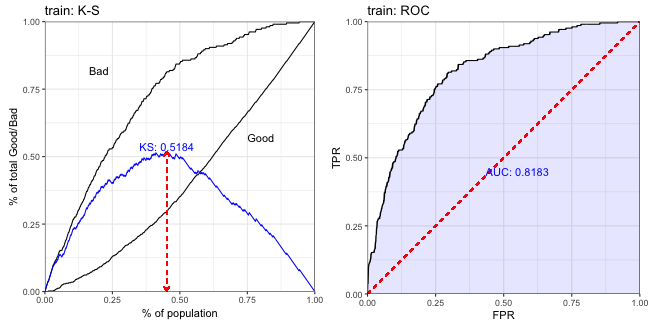
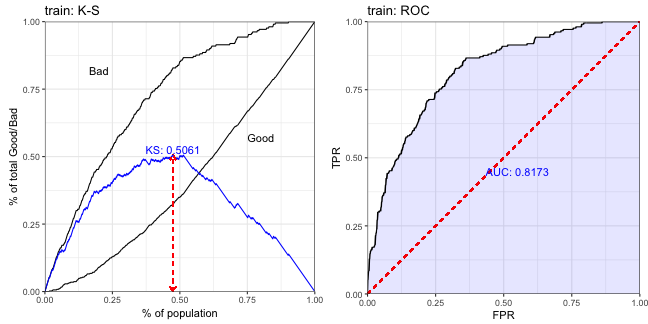
sc

diff --git a/slide/20171115scorecard/index.html b/slide/20171115scorecard/index.html
@@ -504,7 +504,7 @@ ivs[variable=="age.in.years",]
     - 通过上面两步连续变量与类别变量均转换为有序类别变量。
 
     - 最后，采用贪心算法逐步搜索使得信息值最大且新增分箱中样本占比(`min_perc_coarse_bin`)不小于5%的分箱点。
-    - 分箱过程的停止条件是信息增益率(`stop_limit`)小于0.1与最大分箱数(`max_bin_num`)大于8。
+    - 分箱过程的停止条件是信息增益率(`stop_limit`)小于0.1与最大分箱数(`max_num_bin`)大于8。
 
 --
 
@@ -609,12 +609,6 @@ h(x)&amp;=&amp;\frac{1}{1+e^{-z}} \\&amp;=&amp;\frac{1}{1+e^{-(\boldsymbol{w}^T\
 \end{eqnarray}$$`
 ]
 .pull-right[
-
-```
-## Find out what's changed in ggplot2 at
-## http://github.com/tidyverse/ggplot2/releases.
-```
-
 ![](index_files/figure-html/sig-1.png)&lt;!-- --&gt;
 ]
 
@@ -690,47 +684,47 @@ summary(m2)$coefficients
 
 ```
 ##                                                         Estimate
-## (Intercept)                                              -0.8591
-## status.of.existing.checking.account_woe                   0.6334
-## duration.in.month_woe                                     0.5573
-## credit.history_woe                                        0.4882
-## purpose_woe                                               1.0658
-## credit.amount_woe                                         1.0161
-## savings.account.and.bonds_woe                             0.9446
-## present.employment.since_woe                              0.6656
-## installment.rate.in.percentage.of.disposable.income_woe   1.9774
-## personal.status.and.sex_woe                               1.3106
-## property_woe                                              0.8354
-## age.in.years_woe                                          0.9081
-## other.installment.plans_woe                               0.6042
+## (Intercept)                                              -0.8556
+## status.of.existing.checking.account_woe                   0.6375
+## duration.in.month_woe                                     0.5348
+## credit.history_woe                                        0.4941
+## purpose_woe                                               1.0876
+## credit.amount_woe                                         1.0194
+## savings.account.and.bonds_woe                             0.9080
+## present.employment.since_woe                              0.6838
+## installment.rate.in.percentage.of.disposable.income_woe   2.1865
+## personal.status.and.sex_woe                               1.3552
+## property_woe                                              0.8475
+## age.in.years_woe                                          0.9261
+## other.installment.plans_woe                               0.6230
 ##                                                         Std. Error z value
-## (Intercept)                                                 0.1002  -8.577
-## status.of.existing.checking.account_woe                     0.1269   4.993
-## duration.in.month_woe                                       0.1996   2.792
-## credit.history_woe                                          0.1798   2.715
-## purpose_woe                                                 0.2600   4.099
-## credit.amount_woe                                           0.2544   3.994
-## savings.account.and.bonds_woe                               0.2412   3.916
-## present.employment.since_woe                                0.3353   1.985
-## installment.rate.in.percentage.of.disposable.income_woe     0.6397   3.091
-## personal.status.and.sex_woe                                 0.4887   2.682
-## property_woe                                                0.3109   2.687
-## age.in.years_woe                                            0.3071   2.957
-## other.installment.plans_woe                                 0.3967   1.523
+## (Intercept)                                                0.09994  -8.561
+## status.of.existing.checking.account_woe                    0.12678   5.028
+## duration.in.month_woe                                      0.20009   2.673
+## credit.history_woe                                         0.18001   2.745
+## purpose_woe                                                0.26026   4.179
+## credit.amount_woe                                          0.25486   4.000
+## savings.account.and.bonds_woe                              0.24003   3.783
+## present.employment.since_woe                               0.33525   2.040
+## installment.rate.in.percentage.of.disposable.income_woe    0.72834   3.002
+## personal.status.and.sex_woe                                0.49037   2.764
+## property_woe                                               0.31028   2.731
+## age.in.years_woe                                           0.30772   3.009
+## other.installment.plans_woe                                0.39668   1.571
 ##                                                          Pr(&gt;|z|)
-## (Intercept)                                             9.759e-18
-## status.of.existing.checking.account_woe                 5.960e-07
-## duration.in.month_woe                                   5.233e-03
-## credit.history_woe                                      6.624e-03
-## purpose_woe                                             4.150e-05
-## credit.amount_woe                                       6.501e-05
-## savings.account.and.bonds_woe                           8.987e-05
-## present.employment.since_woe                            4.714e-02
-## installment.rate.in.percentage.of.disposable.income_woe 1.994e-03
-## personal.status.and.sex_woe                             7.324e-03
-## property_woe                                            7.209e-03
-## age.in.years_woe                                        3.105e-03
-## other.installment.plans_woe                             1.277e-01
+## (Intercept)                                             1.115e-17
+## status.of.existing.checking.account_woe                 4.945e-07
+## duration.in.month_woe                                   7.523e-03
+## credit.history_woe                                      6.055e-03
+## purpose_woe                                             2.928e-05
+## credit.amount_woe                                       6.341e-05
+## savings.account.and.bonds_woe                           1.551e-04
+## present.employment.since_woe                            4.139e-02
+## installment.rate.in.percentage.of.disposable.income_woe 2.682e-03
+## personal.status.and.sex_woe                             5.718e-03
+## property_woe                                            6.306e-03
+## age.in.years_woe                                        2.617e-03
+## other.installment.plans_woe                             1.163e-01
 ```
 
 ---
@@ -922,9 +916,9 @@ data.table::rbindlist(card, fill=TRUE)[c(1,37:40),1:4]
 ## 4: age.in.years                                            [-Inf,26)
 ## 5: age.in.years                                              [26,35)
 ##        woe points
-## 1:      NA    450
+## 1:      NA    449
 ## 2: 0.03419     -2
-## 3: 0.58608    -35
+## 3: 0.58608    -36
 ## 4: 0.52884    -35
 ## 5: 0.06047     -4
 ```
@@ -944,7 +938,7 @@ str(train_score)
 
 ```
 ## Classes 'data.table' and 'data.frame':	700 obs. of  1 variable:
-##  $ score: num  528 677 533 492 444 473 444 519 605 453 ...
+##  $ score: num  533 673 541 487 451 478 450 494 601 456 ...
 ##  - attr(*, ".internal.selfref")=&lt;externalptr&gt;
 ```
 
@@ -957,18 +951,18 @@ str(train_score2)
 ```
 ## Classes 'data.table' and 'data.frame':	700 obs. of  13 variables:
 ##  $ status.of.existing.checking.account_points                : num  54 19 -28 19 54 54 -28 54 54 54 ...
-##  $ duration.in.month_points                                  : num  -21 14 53 14 -21 -4 -4 -46 14 14 ...
-##  $ credit.history_points                                     : num  26 -3 -3 -3 26 -43 26 -3 -3 -3 ...
-##  $ purpose_points                                            : num  62 32 62 32 -22 -22 32 32 32 -22 ...
-##  $ credit.amount_points                                      : num  -86 19 -2 19 -29 53 -2 -29 19 -2 ...
-##  $ savings.account.and.bonds_points                          : num  52 52 52 -18 -18 -18 -18 52 -18 -18 ...
-##  $ present.employment.since_points                           : num  -2 11 -21 -21 11 19 -2 11 -2 -2 ...
-##  $ installment.rate.in.percentage.of.disposable.income_points: num  -22 27 27 27 -22 -22 -22 9 27 -22 ...
-##  $ personal.status.and.sex_points                            : num  16 16 -25 -25 16 16 13 16 16 -25 ...
+##  $ duration.in.month_points                                  : num  -20 13 51 13 -20 -4 -4 -44 13 13 ...
+##  $ credit.history_points                                     : num  26 -3 -3 -3 26 -44 26 -3 -3 -3 ...
+##  $ purpose_points                                            : num  63 32 63 32 -22 -22 32 32 32 -22 ...
+##  $ credit.amount_points                                      : num  -86 19 -2 19 -29 54 -2 -29 19 -2 ...
+##  $ savings.account.and.bonds_points                          : num  50 50 50 -18 -18 -18 -18 50 -18 -18 ...
+##  $ present.employment.since_points                           : num  -2 12 -21 -21 12 19 -2 12 -2 -2 ...
+##  $ installment.rate.in.percentage.of.disposable.income_points: num  -16 25 40 25 -16 -16 -16 -16 25 -16 ...
+##  $ personal.status.and.sex_points                            : num  16 16 -26 -26 16 16 14 16 16 -26 ...
 ##  $ property_points                                           : num  -2 -2 -2 28 -2 -2 -2 -2 -2 28 ...
-##  $ age.in.years_points                                       : num  -4 37 -35 -35 -4 13 -4 -4 13 -4 ...
+##  $ age.in.years_points                                       : num  -4 38 -35 -35 -4 13 -4 -4 13 -4 ...
 ##  $ other.installment.plans_points                            : num  5 5 5 5 5 -21 5 -21 5 5 ...
-##  $ score                                                     : num  528 677 533 492 444 473 444 519 605 453 ...
+##  $ score                                                     : num  533 673 541 487 451 478 450 494 601 456 ...
 ##  - attr(*, ".internal.selfref")=&lt;externalptr&gt;
 ```
 
@@ -1012,94 +1006,94 @@ str(train_score2)
  &lt;/thead&gt;
 &lt;tbody&gt;
   &lt;tr&gt;
-   &lt;td style="text-align:left;"&gt; [150,250) &lt;/td&gt;
-   &lt;td style="text-align:right;"&gt; 0.0086 &lt;/td&gt;
-   &lt;td style="text-align:right;"&gt; 0.0167 &lt;/td&gt;
-   &lt;td style="text-align:right;"&gt; -0.0081 &lt;/td&gt;
-   &lt;td style="text-align:right;"&gt; -0.6650 &lt;/td&gt;
-   &lt;td style="text-align:right;"&gt; 0.0054 &lt;/td&gt;
-   &lt;td style="text-align:right;"&gt; 0.0501 &lt;/td&gt;
+   &lt;td style="text-align:left;"&gt; [100,250) &lt;/td&gt;
+   &lt;td style="text-align:right;"&gt; 0.0114 &lt;/td&gt;
+   &lt;td style="text-align:right;"&gt; 0.0200 &lt;/td&gt;
+   &lt;td style="text-align:right;"&gt; -0.0086 &lt;/td&gt;
+   &lt;td style="text-align:right;"&gt; -0.5596 &lt;/td&gt;
+   &lt;td style="text-align:right;"&gt; 0.0048 &lt;/td&gt;
+   &lt;td style="text-align:right;"&gt; 0.0333 &lt;/td&gt;
   &lt;/tr&gt;
   &lt;tr&gt;
    &lt;td style="text-align:left;"&gt; [250,300) &lt;/td&gt;
-   &lt;td style="text-align:right;"&gt; 0.0343 &lt;/td&gt;
-   &lt;td style="text-align:right;"&gt; 0.0300 &lt;/td&gt;
-   &lt;td style="text-align:right;"&gt; 0.0043 &lt;/td&gt;
-   &lt;td style="text-align:right;"&gt; 0.1335 &lt;/td&gt;
-   &lt;td style="text-align:right;"&gt; 0.0006 &lt;/td&gt;
-   &lt;td style="text-align:right;"&gt; 0.0501 &lt;/td&gt;
+   &lt;td style="text-align:right;"&gt; 0.0357 &lt;/td&gt;
+   &lt;td style="text-align:right;"&gt; 0.0267 &lt;/td&gt;
+   &lt;td style="text-align:right;"&gt; 0.0090 &lt;/td&gt;
+   &lt;td style="text-align:right;"&gt; 0.2921 &lt;/td&gt;
+   &lt;td style="text-align:right;"&gt; 0.0026 &lt;/td&gt;
+   &lt;td style="text-align:right;"&gt; 0.0333 &lt;/td&gt;
   &lt;/tr&gt;
   &lt;tr&gt;
    &lt;td style="text-align:left;"&gt; [300,350) &lt;/td&gt;
-   &lt;td style="text-align:right;"&gt; 0.0957 &lt;/td&gt;
-   &lt;td style="text-align:right;"&gt; 0.0600 &lt;/td&gt;
-   &lt;td style="text-align:right;"&gt; 0.0357 &lt;/td&gt;
-   &lt;td style="text-align:right;"&gt; 0.4670 &lt;/td&gt;
-   &lt;td style="text-align:right;"&gt; 0.0167 &lt;/td&gt;
-   &lt;td style="text-align:right;"&gt; 0.0501 &lt;/td&gt;
+   &lt;td style="text-align:right;"&gt; 0.0914 &lt;/td&gt;
+   &lt;td style="text-align:right;"&gt; 0.0633 &lt;/td&gt;
+   &lt;td style="text-align:right;"&gt; 0.0281 &lt;/td&gt;
+   &lt;td style="text-align:right;"&gt; 0.3671 &lt;/td&gt;
+   &lt;td style="text-align:right;"&gt; 0.0103 &lt;/td&gt;
+   &lt;td style="text-align:right;"&gt; 0.0333 &lt;/td&gt;
   &lt;/tr&gt;
   &lt;tr&gt;
    &lt;td style="text-align:left;"&gt; [350,400) &lt;/td&gt;
-   &lt;td style="text-align:right;"&gt; 0.1157 &lt;/td&gt;
-   &lt;td style="text-align:right;"&gt; 0.1400 &lt;/td&gt;
-   &lt;td style="text-align:right;"&gt; -0.0243 &lt;/td&gt;
-   &lt;td style="text-align:right;"&gt; -0.1905 &lt;/td&gt;
-   &lt;td style="text-align:right;"&gt; 0.0046 &lt;/td&gt;
-   &lt;td style="text-align:right;"&gt; 0.0501 &lt;/td&gt;
+   &lt;td style="text-align:right;"&gt; 0.1100 &lt;/td&gt;
+   &lt;td style="text-align:right;"&gt; 0.1467 &lt;/td&gt;
+   &lt;td style="text-align:right;"&gt; -0.0367 &lt;/td&gt;
+   &lt;td style="text-align:right;"&gt; -0.2877 &lt;/td&gt;
+   &lt;td style="text-align:right;"&gt; 0.0105 &lt;/td&gt;
+   &lt;td style="text-align:right;"&gt; 0.0333 &lt;/td&gt;
   &lt;/tr&gt;
   &lt;tr&gt;
    &lt;td style="text-align:left;"&gt; [400,450) &lt;/td&gt;
-   &lt;td style="text-align:right;"&gt; 0.1686 &lt;/td&gt;
-   &lt;td style="text-align:right;"&gt; 0.1800 &lt;/td&gt;
-   &lt;td style="text-align:right;"&gt; -0.0114 &lt;/td&gt;
-   &lt;td style="text-align:right;"&gt; -0.0656 &lt;/td&gt;
-   &lt;td style="text-align:right;"&gt; 0.0007 &lt;/td&gt;
-   &lt;td style="text-align:right;"&gt; 0.0501 &lt;/td&gt;
+   &lt;td style="text-align:right;"&gt; 0.1786 &lt;/td&gt;
+   &lt;td style="text-align:right;"&gt; 0.1767 &lt;/td&gt;
+   &lt;td style="text-align:right;"&gt; 0.0019 &lt;/td&gt;
+   &lt;td style="text-align:right;"&gt; 0.0107 &lt;/td&gt;
+   &lt;td style="text-align:right;"&gt; 0.0000 &lt;/td&gt;
+   &lt;td style="text-align:right;"&gt; 0.0333 &lt;/td&gt;
   &lt;/tr&gt;
   &lt;tr&gt;
    &lt;td style="text-align:left;"&gt; [450,500) &lt;/td&gt;
    &lt;td style="text-align:right;"&gt; 0.1586 &lt;/td&gt;
-   &lt;td style="text-align:right;"&gt; 0.1700 &lt;/td&gt;
-   &lt;td style="text-align:right;"&gt; -0.0114 &lt;/td&gt;
-   &lt;td style="text-align:right;"&gt; -0.0696 &lt;/td&gt;
-   &lt;td style="text-align:right;"&gt; 0.0008 &lt;/td&gt;
-   &lt;td style="text-align:right;"&gt; 0.0501 &lt;/td&gt;
+   &lt;td style="text-align:right;"&gt; 0.1567 &lt;/td&gt;
+   &lt;td style="text-align:right;"&gt; 0.0019 &lt;/td&gt;
+   &lt;td style="text-align:right;"&gt; 0.0121 &lt;/td&gt;
+   &lt;td style="text-align:right;"&gt; 0.0000 &lt;/td&gt;
+   &lt;td style="text-align:right;"&gt; 0.0333 &lt;/td&gt;
   &lt;/tr&gt;
   &lt;tr&gt;
    &lt;td style="text-align:left;"&gt; [500,550) &lt;/td&gt;
-   &lt;td style="text-align:right;"&gt; 0.1543 &lt;/td&gt;
-   &lt;td style="text-align:right;"&gt; 0.1667 &lt;/td&gt;
-   &lt;td style="text-align:right;"&gt; -0.0124 &lt;/td&gt;
-   &lt;td style="text-align:right;"&gt; -0.0772 &lt;/td&gt;
-   &lt;td style="text-align:right;"&gt; 0.0010 &lt;/td&gt;
-   &lt;td style="text-align:right;"&gt; 0.0501 &lt;/td&gt;
+   &lt;td style="text-align:right;"&gt; 0.1657 &lt;/td&gt;
+   &lt;td style="text-align:right;"&gt; 0.1700 &lt;/td&gt;
+   &lt;td style="text-align:right;"&gt; -0.0043 &lt;/td&gt;
+   &lt;td style="text-align:right;"&gt; -0.0255 &lt;/td&gt;
+   &lt;td style="text-align:right;"&gt; 0.0001 &lt;/td&gt;
+   &lt;td style="text-align:right;"&gt; 0.0333 &lt;/td&gt;
   &lt;/tr&gt;
   &lt;tr&gt;
    &lt;td style="text-align:left;"&gt; [550,600) &lt;/td&gt;
-   &lt;td style="text-align:right;"&gt; 0.1300 &lt;/td&gt;
-   &lt;td style="text-align:right;"&gt; 0.1000 &lt;/td&gt;
-   &lt;td style="text-align:right;"&gt; 0.0300 &lt;/td&gt;
-   &lt;td style="text-align:right;"&gt; 0.2624 &lt;/td&gt;
-   &lt;td style="text-align:right;"&gt; 0.0079 &lt;/td&gt;
-   &lt;td style="text-align:right;"&gt; 0.0501 &lt;/td&gt;
+   &lt;td style="text-align:right;"&gt; 0.1143 &lt;/td&gt;
+   &lt;td style="text-align:right;"&gt; 0.1133 &lt;/td&gt;
+   &lt;td style="text-align:right;"&gt; 0.0010 &lt;/td&gt;
+   &lt;td style="text-align:right;"&gt; 0.0084 &lt;/td&gt;
+   &lt;td style="text-align:right;"&gt; 0.0000 &lt;/td&gt;
+   &lt;td style="text-align:right;"&gt; 0.0333 &lt;/td&gt;
   &lt;/tr&gt;
   &lt;tr&gt;
    &lt;td style="text-align:left;"&gt; [600,650) &lt;/td&gt;
    &lt;td style="text-align:right;"&gt; 0.0729 &lt;/td&gt;
-   &lt;td style="text-align:right;"&gt; 0.0933 &lt;/td&gt;
-   &lt;td style="text-align:right;"&gt; -0.0205 &lt;/td&gt;
-   &lt;td style="text-align:right;"&gt; -0.2477 &lt;/td&gt;
-   &lt;td style="text-align:right;"&gt; 0.0051 &lt;/td&gt;
-   &lt;td style="text-align:right;"&gt; 0.0501 &lt;/td&gt;
+   &lt;td style="text-align:right;"&gt; 0.0767 &lt;/td&gt;
+   &lt;td style="text-align:right;"&gt; -0.0038 &lt;/td&gt;
+   &lt;td style="text-align:right;"&gt; -0.0510 &lt;/td&gt;
+   &lt;td style="text-align:right;"&gt; 0.0002 &lt;/td&gt;
+   &lt;td style="text-align:right;"&gt; 0.0333 &lt;/td&gt;
   &lt;/tr&gt;
   &lt;tr&gt;
    &lt;td style="text-align:left;"&gt; [650,700) &lt;/td&gt;
    &lt;td style="text-align:right;"&gt; 0.0486 &lt;/td&gt;
-   &lt;td style="text-align:right;"&gt; 0.0367 &lt;/td&gt;
-   &lt;td style="text-align:right;"&gt; 0.0119 &lt;/td&gt;
-   &lt;td style="text-align:right;"&gt; 0.2812 &lt;/td&gt;
-   &lt;td style="text-align:right;"&gt; 0.0033 &lt;/td&gt;
-   &lt;td style="text-align:right;"&gt; 0.0501 &lt;/td&gt;
+   &lt;td style="text-align:right;"&gt; 0.0433 &lt;/td&gt;
+   &lt;td style="text-align:right;"&gt; 0.0052 &lt;/td&gt;
+   &lt;td style="text-align:right;"&gt; 0.1141 &lt;/td&gt;
+   &lt;td style="text-align:right;"&gt; 0.0006 &lt;/td&gt;
+   &lt;td style="text-align:right;"&gt; 0.0333 &lt;/td&gt;
   &lt;/tr&gt;
   &lt;tr&gt;
    &lt;td style="text-align:left;"&gt; [700,800) &lt;/td&gt;
@@ -1108,7 +1102,7 @@ str(train_score2)
    &lt;td style="text-align:right;"&gt; 0.0062 &lt;/td&gt;
    &lt;td style="text-align:right;"&gt; 0.6568 &lt;/td&gt;
    &lt;td style="text-align:right;"&gt; 0.0041 &lt;/td&gt;
-   &lt;td style="text-align:right;"&gt; 0.0501 &lt;/td&gt;
+   &lt;td style="text-align:right;"&gt; 0.0333 &lt;/td&gt;
   &lt;/tr&gt;
 &lt;/tbody&gt;
 &lt;/table&gt;
@@ -1169,7 +1163,7 @@ psi$psi
 
 ```
 ##    variable     PSI
-## 1:    score 0.05012
+## 1:    score 0.03332
 ```
 ]
 
